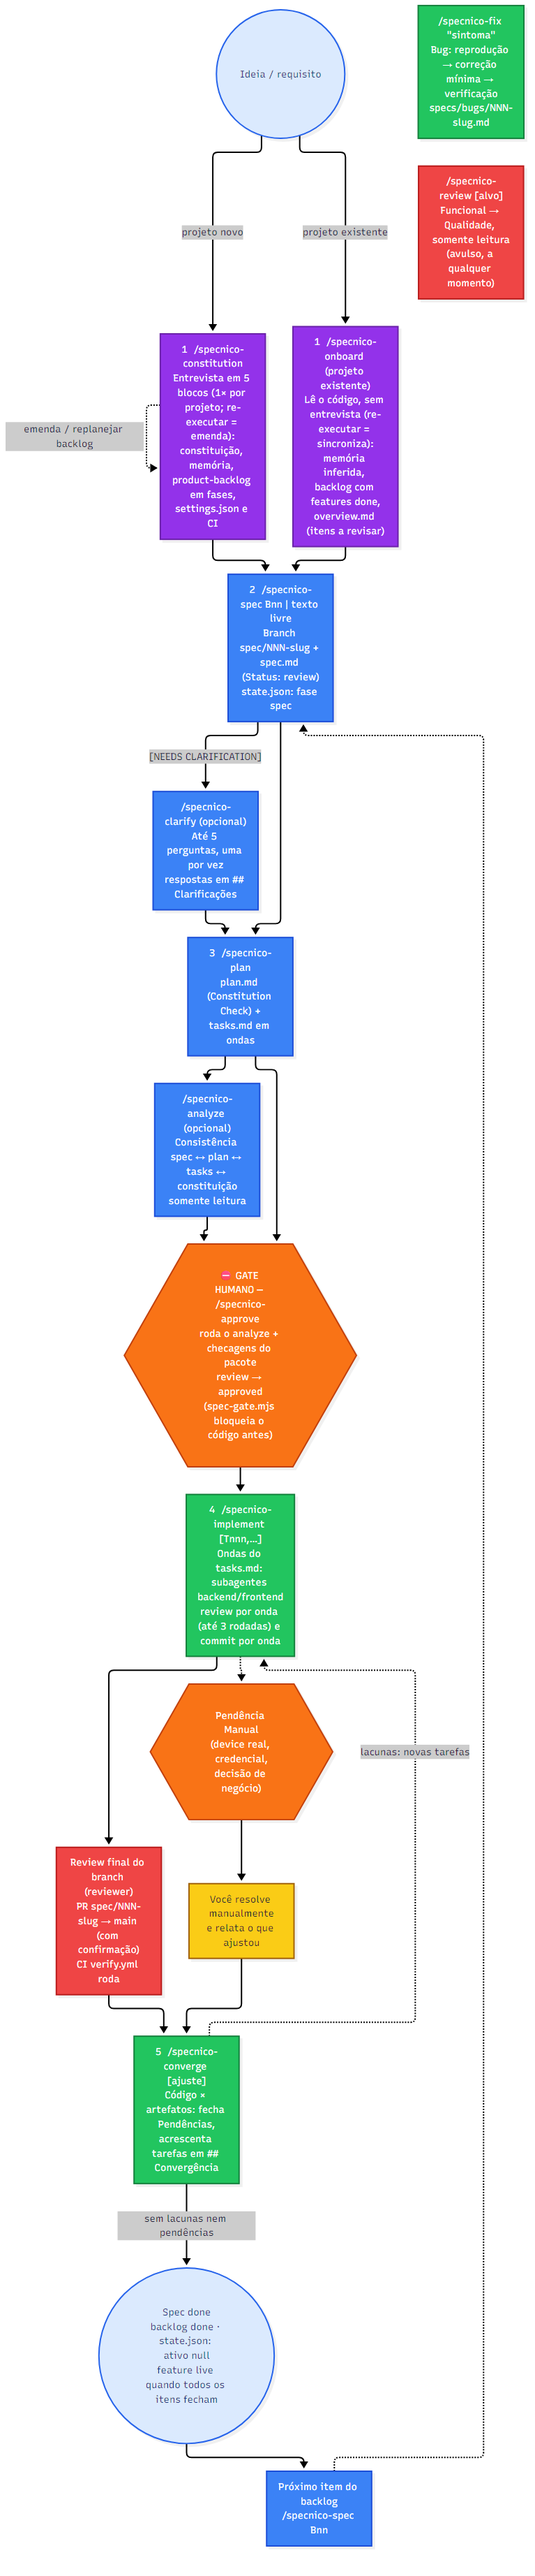
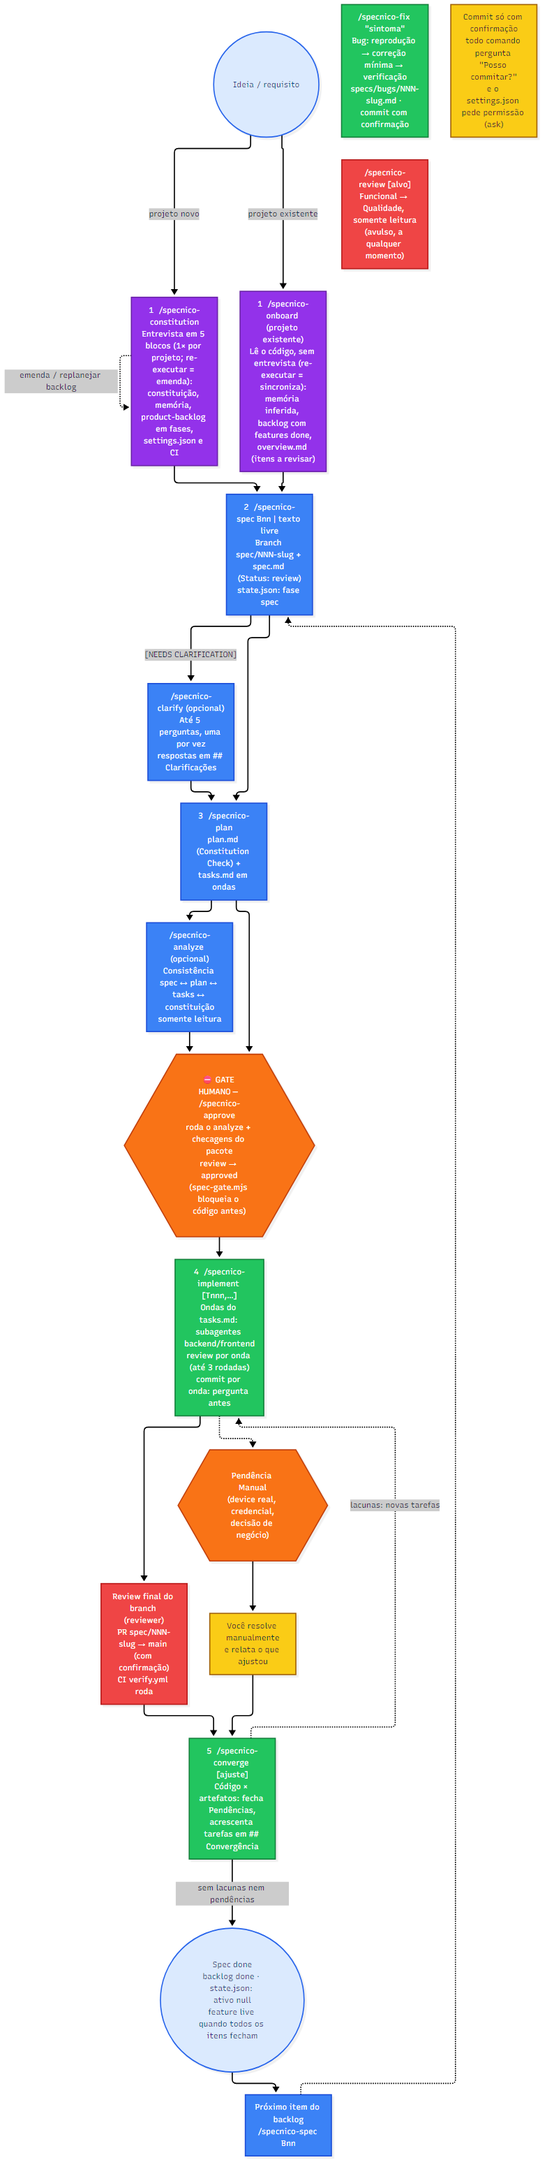
docs: README e fluxograma alinhados ao fluxo 2.1.1
- Instalação em projeto existente aponta para /specnico-onboard e para a
  dica Próximo: do CLI.
- Commit só com confirmação no "Por que", na tabela de comandos e no
  exemplo completo; aviso do --upgrade sobre settings.json.
- Fluxograma: commit por onda pergunta antes, fix com confirmação e nota
  da regra de commit.

Changed region(s): [[0.0, 0.0, 0.9896, 0.993], [0.8996, 0.3103, 0.9296, 0.9309], [0.6297, 0.6516, 0.8696, 0.7758]]

diff --git a/README.md b/README.md
@@ -20,7 +20,8 @@ com evidência e execução em ondas.
   **bloqueia** a edição dos arquivos da Spec ativa enquanto ela está em `review`,
   e a aprovação (`/specnico-approve`) é um gate humano.
 - Trabalho grande vira ondas pequenas, cada uma com subagente, review e commit
-  próprios, sempre num branch por Spec.
+  próprios, sempre num branch por Spec. Nenhum commit acontece sem você
+  confirmar.
 
 Inspirado no [Spec Kit](https://github.com/github/spec-kit); o Specnico é
 Claude-native, com aprovação humana e hooks que bloqueiam em vez de só orientar.
@@ -42,8 +43,19 @@ npx specnico
 /specnico-constitution
 ```
 
-**Projeto existente (sem Specnico):** o mesmo comando. A constituição detecta o
-código existente e a stack antes de perguntar.
+**Projeto existente (sem Specnico):**
+
+```bash
+cd seu-projeto
+npx specnico
+# abra o Claude Code e rode:
+/specnico-onboard
+```
+
+O `/specnico-onboard` lê o código em vez de entrevistar: preenche a memória e o
+backlog (features entregues como `done`) e grava o resumo
+`.specify/memory/overview.md`. Ao fim da instalação, o próprio CLI indica qual
+dos dois comandos usar (`Próximo:`), conforme o diretório já tenha código ou não.
 
 O `npx specnico` nunca sobrescreve arquivos que já existem. Se o projeto já tem
 o Spec Kit (arquivo `init-options.json` em `.specify`), o CLI avisa: os dois usam
@@ -58,7 +70,7 @@ o Spec Kit (arquivo `init-options.json` em `.specify`), o CLI avisa: os dois usa
   hooks/                    ← spec-gate, verify-file, verify-project
   CLAUDE.md  README.md  settings.example.json
 .specify/
-  memory/                   ← dado do projeto: constituição, produto, backlog, arquitetura, convenções, decisões
+  memory/                   ← dado do projeto: constituição, produto, backlog, arquitetura, convenções, decisões (+ overview.md do onboard)
   templates/  packs/  workflows/   ← processo (atualizado pelo --upgrade)
 specs/
   README.md                 ← uma pasta por Spec: specs/NNN-slug/
@@ -79,6 +91,11 @@ O `--upgrade` **sobrescreve** o harness (`.claude/{agents,hooks,skills}`,
 arquivos. **Preserva** `.specify/memory/`, `specs/` e `.claude/settings.json`:
 nessas áreas só cria o que faltar. `--force` sobrescreve tudo e pede
 confirmação quando o contexto já foi preenchido.
+
+Quando o `settings.example.json` muda, o `--upgrade` avisa, mas não toca no seu
+`.claude/settings.json`: faça o merge à mão. Vindo de uma versão anterior à
+2.1.1, mova `Bash(git commit:*)` de `allow` para `ask` (ver
+[Commit só com confirmação](#hooks-e-segurança)).
 
 ## Vindo do `@robertourias/scaffold-ia` 1.x
 
@@ -171,23 +188,27 @@ continua aceito como alias.
 | `/specnico-plan` | Spec pronta para virar plano técnico | `plan.md` (com Constitution Check) e `tasks.md` em ondas |
 | `/specnico-analyze` | antes de aprovar, para checar consistência | relatório somente leitura: spec ↔ plan ↔ tasks ↔ constituição |
 | `/specnico-approve` | gate humano (só você pode acionar) | Status `approved`, backlog e `state.json` atualizados |
-| `/specnico-implement [Tnnn,…]` | executar o `tasks.md` | código, commits por onda, `review.md`, PR oferecido |
+| `/specnico-implement [Tnnn,…]` | executar o `tasks.md` | código, commit por onda (cada um com sua confirmação), `review.md`, PR oferecido |
 | `/specnico-converge` | depois do implement | fecha Pendências Manuais, acrescenta tarefas faltantes ou conclui a Spec (`done`) |
 | `/specnico-review [alvo]` | revisar o diff do branch ou um alvo | relatório em dois estágios (Funcional → Qualidade), somente leitura |
 | `/specnico-fix "<sintoma>"` | bug, sem Spec completa | reprodução, correção mínima, `specs/bugs/NNN-slug.md` |
 
-Todo comando termina com uma linha `Próximo:` indicando o passo seguinte.
+Todo comando termina com uma linha `Próximo:` indicando o passo seguinte. Os
+que commitam (`constitution`, `spec`, `clarify`, `plan`, `approve`,
+`implement`, `converge`, `fix`) mostram a mensagem e os arquivos e perguntam
+"Posso commitar?" antes; sem confirmação, as mudanças ficam no working tree.
 
 ### Exemplo completo
 
 ```text
 /specnico-constitution            # entrevista em 5 blocos; gera a memória e o backlog em fases
+                                  #   (projeto existente: /specnico-onboard no lugar)
 /specnico-spec B01                # specs/001-monorepo-base/spec.md (Status: review)
 /specnico-clarify                 # só se houver ambiguidades
 /specnico-plan                    # plan.md + tasks.md em ondas
 /specnico-analyze                 # opcional: consistência antes do gate
 /specnico-approve                 # você aprova o pacote spec + plan + tasks
-/specnico-implement               # ondas: subagentes, review e commit por onda; oferece o PR
+/specnico-implement               # ondas: subagentes, review e commit por onda (você confirma cada um); oferece o PR
 /specnico-converge                # fecha pendências; sem lacunas, a Spec vai a done
 /specnico-spec B02                # próximo item do backlog
 ```
